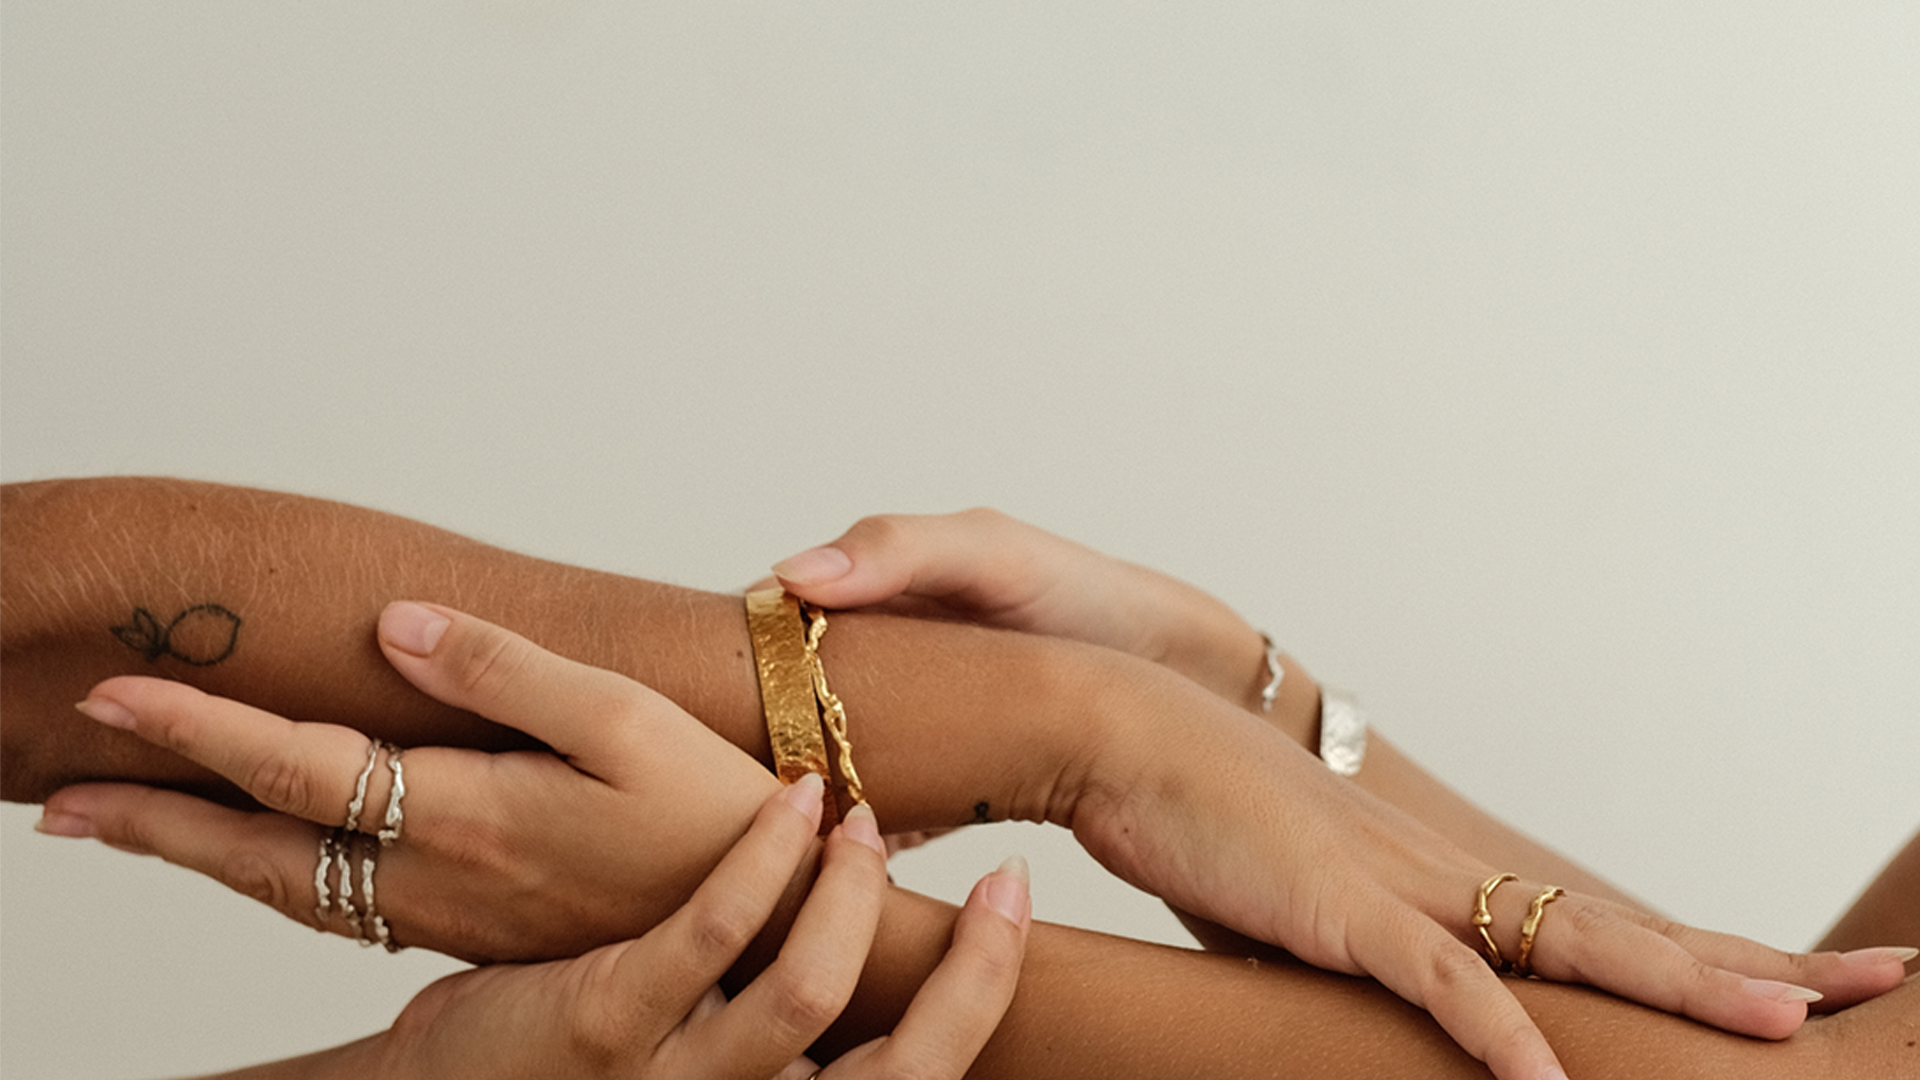
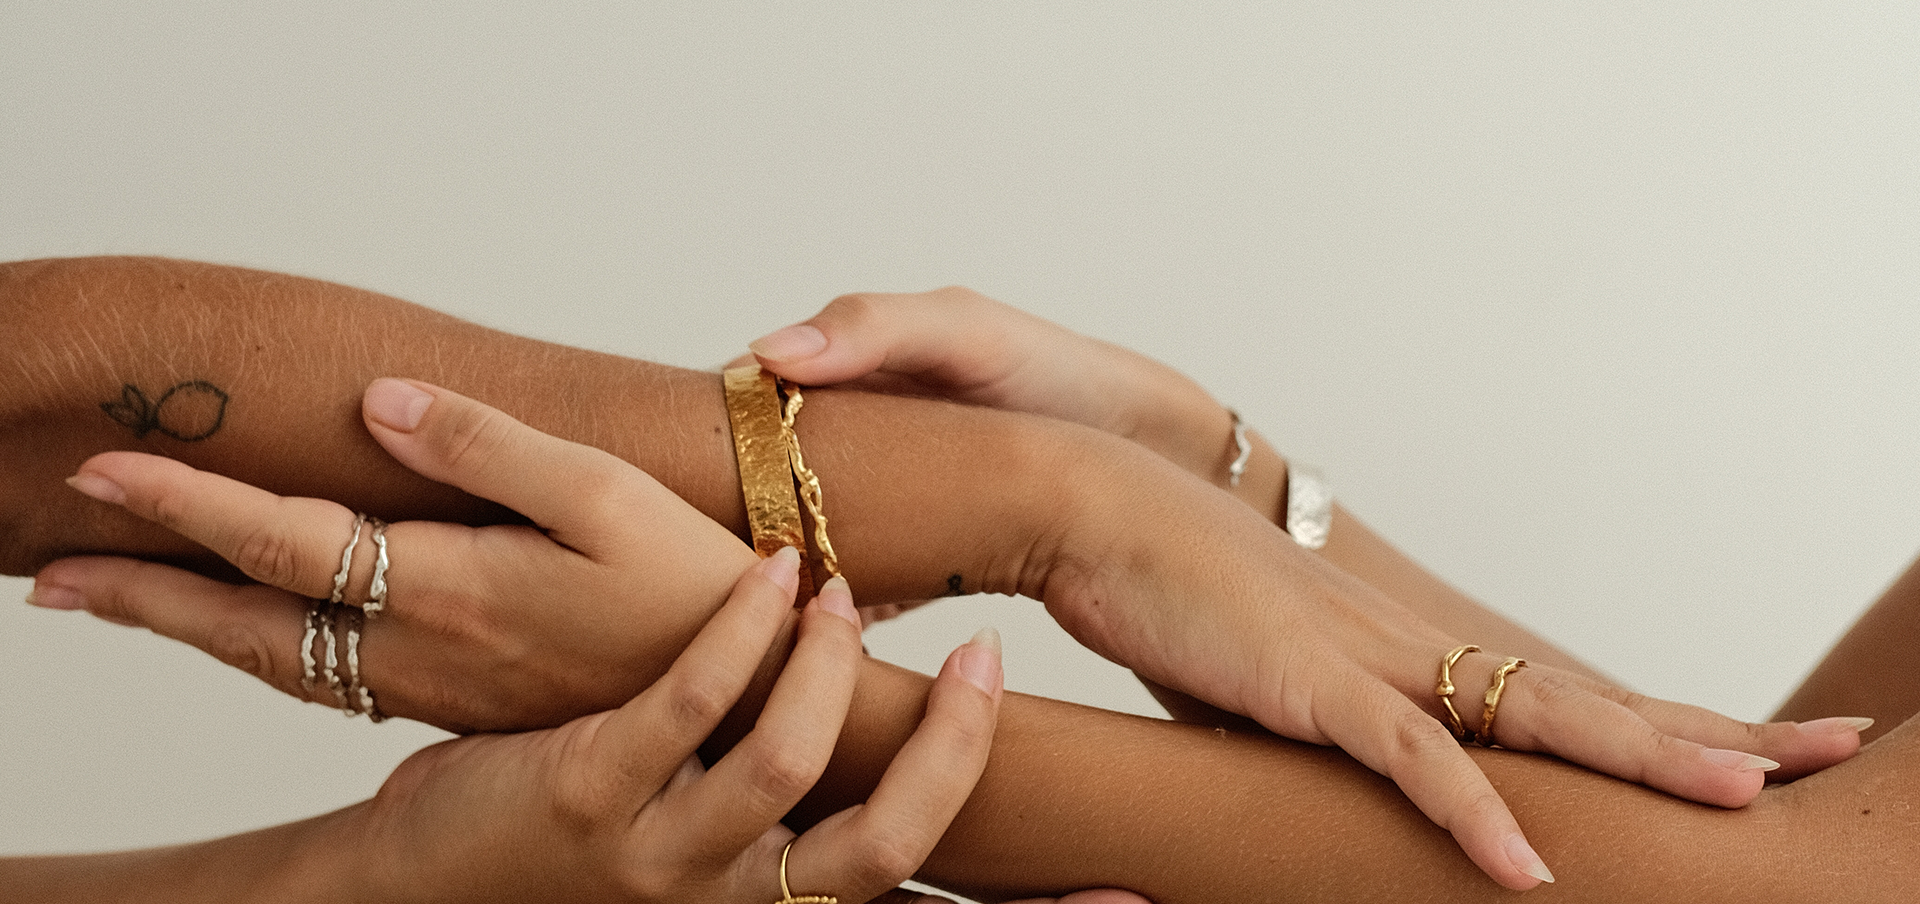
improvements in responsiveness

diff --git a/main.css b/main.css
@@ -132,7 +132,9 @@ a.shopnow2:active {
 }
 
 .space {
-  margin-bottom: 4rem;
+  margin-bottom: 3rem;
+  font-size: 1.7rem;
+ 
 }
 
 .buttonquote {
@@ -596,10 +598,9 @@ button {
 @media (min-width: 1024px) {
   .landingphoto {
     background-image: url("media/landingphoto_1920px.png");
-    height: 1080px;
   }
   .logo {
-    width: 15rem;
+    width: 11rem;
     margin-left: 1rem;
     text-align: right;
   }
@@ -644,7 +645,7 @@ button {
   header nav ul {
     display: flex;
     justify-content: space-evenly;
-    font-size: 2.2rem;
+    font-size: 1.9rem;
   }
 
   .onepiece {
@@ -659,24 +660,27 @@ button {
 
   .products_list {
     display: grid;
-    grid-template-columns: 1fr 1fr;
+    grid-template-columns: 1fr 1fr 1fr;
+    margin-left: -3rem;
   }
 
   .searchicon {
-    width: 2.7rem;
+    width: 2rem;
     margin-right: 2.5rem;
   }
 
   .carticon {
-    width: 2.1rem;
+    width: 1.7rem;
   }
 
   h1 {
-    font-size: 3rem;
+    font-size: 1.8rem;
     margin-bottom: 3rem;
+    margin-top: -3rem;
+    margin-left: -15rem;
   }
   .shopnow {
-    font-size: 2rem;
+    font-size: 1.3rem;
   }
   .buttonquote {
     text-align: center;
@@ -687,7 +691,7 @@ button {
   }
 
   .mainh2 {
-    font-size: 4rem;
+    font-size: 3rem;
 
     margin-left: 30%;
     margin-right: 30%;
@@ -695,7 +699,7 @@ button {
   .secondparthpgrid {
     display: grid;
     grid-template-columns: 1fr 1fr 1fr 1fr;
-    column-gap: 12rem;
+    column-gap: 10rem;
   }
 
   h3 {
@@ -704,10 +708,10 @@ button {
   }
 
   p {
-    font-size: 2rem;
+    font-size: 1.3rem;
     margin-left: 7rem;
     margin-right: 7rem;
-    line-height: 4rem;
+    
   }
 
   .productimg {
@@ -715,11 +719,11 @@ button {
   }
 
   .vishnubrahma {
-    font-size: 2.6rem;
+    font-size: 2.1rem;
   }
 
   .category {
-    font-size: 2.5rem;
+    font-size: 1.8rem;
   }
 
   .price {
@@ -778,7 +782,7 @@ button {
 
   .theprotector {
     display: flex;
-    padding-top: 2rem;
+    padding-top: 7rem;
     padding-bottom: 4rem;
   }
 
@@ -805,6 +809,7 @@ button {
 
   .theprotector > .right > video {
     height: 100%;
+    
   }
 
   .protecth3 {

diff --git a/homepage.html b/homepage.html
@@ -105,8 +105,8 @@
 
       <div class="lastpart">
       <p class="space">
-        High quality goods and pure energy in one. <br />For each and every
-        person who has<br> the courage to discover the unknown and <br> live it to
+        High quality goods and pure energy in one. For each and every
+        person who has<br> the courage to discover the unknown and live it to
         the fullest. <br>Join the journey of love and connect with URTA.
       </p>
       <a href="about.html" class="shopnow2">read more</a>
